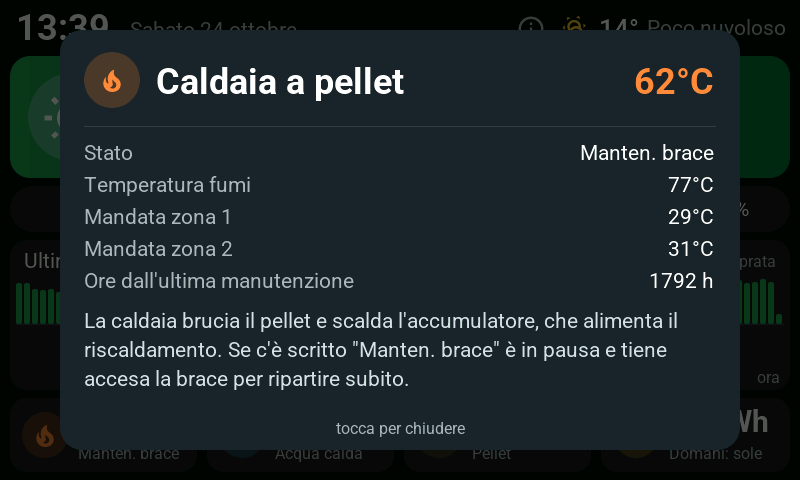
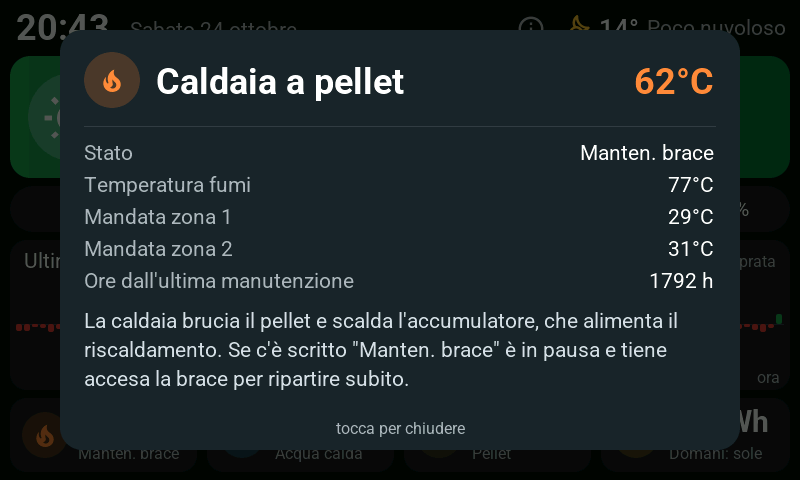
feat: blue self-sufficient semaforo state, 200 W grid deadband
Claude-Session: https://claude.ai/code/session_018yhPoiFCoFeAhkr3QMpMdf

diff --git a/README.md b/README.md
@@ -8,7 +8,7 @@ Taken from the desktop simulator with demo data.
 
 | | |
 |---|---|
-| ![Pellet profile, green](docs/pellet.png)<br>Pellet profile, green semaforo: a lot of export | ![Pellet profile, yellow](docs/pellet_yellow.png)<br>Yellow semaforo: battery charging, sun nearly enough |
+| ![Pellet profile, green](docs/pellet.png)<br>Pellet profile, green semaforo: a lot of export | ![Pellet profile, blue](docs/pellet_yellow.png)<br>Blue semaforo: battery charging, sun nearly enough |
 | ![Pellet profile, red](docs/pellet_red.png)<br>Red semaforo: importing from the grid | ![Gas profile](docs/gas.png)<br>Gas boiler profile |
 | ![Heat pump profile](docs/heatpump.png)<br>Heat pump profile | ![Pellet popup](docs/pellet_popup.png)<br>Pellet boiler popup |
 | ![Heat pump popup](docs/heatpump_popup.png)<br>Heat pump popup | ![Gas and EV popup](docs/gas_ev_popup.png)<br>Gas boiler + car charging popup |
@@ -23,7 +23,7 @@ Waveshare ESP32-S3-Touch-LCD-7: 800x480 RGB panel driven with `rpi_dpi_rgb`, 8 M
 ## What it shows
 
 - **Semaforo** — green above `${green_export_w}` (2500 W) exported, yellow in between, red above `${red_import_w}` (800 W) imported. Both are calibration knobs in `ui.yaml`; grid values are averaged over 30 s so the colour does not flicker.
-  Yellow is not one message: it reads `batt_dis_w` and `batt_chg_w` (> 200 W) and says "Andiamo a batteria" while the battery is discharging, "La batteria si sta caricando" while it is charging (green is coming), "Prendiamo un po' dalla rete" for a small grid import above 50 W, and "Il sole basta per la casa" when the sun covers the house.
+  **Blue** means self-sufficient, nothing to do: "Usiamo il sole di oggi" while the battery discharges, "Il sole carica la batteria" while it charges, "Il sole basta per la casa" otherwise (`batt_dis_w` / `batt_chg_w` > 200 W). **Yellow** is only a small grid import between `grid_deadband_w` (200 W) and `red_import_w`; below the deadband the grid pill says "Niente dalla rete" (inverter regulation noise is not shown as buying).
 - **Pills** — `Rete` (grid, or "Rete a zero"), `Casa` (house load) and battery percentage.
 - **Last 24 hours chart** — scrolling window, newest on the right ("ora"): one bar per 15 minutes, green upward for exported energy, red downward for imported, auto-scaled to the largest bar of the window (at least 1 kW, shown as "max N kW"); hour labels move with the bars. Saved to flash once per completed slot (under 1 KB, ~96 writes a day) and restored after a reboot.
 - **Info button** — the (i) next to the weather opens a short "how to read it" popup.
